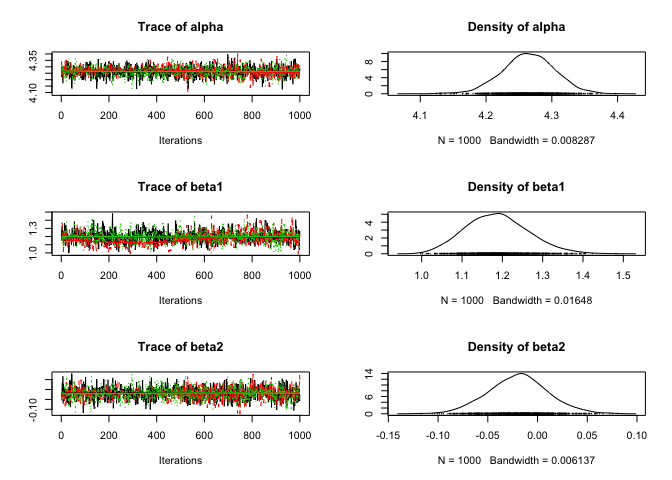
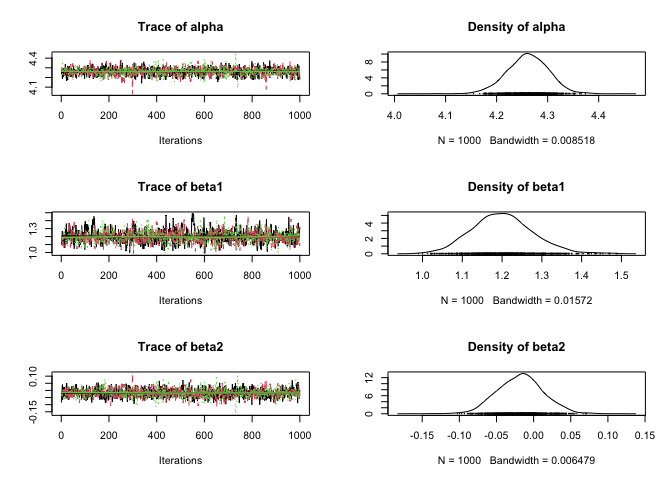
update readme

diff --git a/README.md b/README.md
@@ -1,17 +1,18 @@
 
 <!-- README.md is generated from README.Rmd. Please edit that file -->
 
+# smbr
+
+<!-- badges: start -->
+
 [![Lifecycle:
 stable](https://img.shields.io/badge/lifecycle-stable-brightgreen.svg)](https://lifecycle.r-lib.org/articles/stages.html#stable)
-[![R build
-status](https://github.com/poissonconsulting/smbr/workflows/R-CMD-check/badge.svg)](https://github.com/poissonconsulting/smbr/actions)
+[![R-CMD-check](https://github.com/poissonconsulting/smbr/workflows/R-CMD-check/badge.svg)](https://github.com/poissonconsulting/smbr/actions)
 [![Codecov test
 coverage](https://codecov.io/gh/poissonconsulting/smbr/branch/master/graph/badge.svg)](https://codecov.io/gh/poissonconsulting/smbr?branch=master)
 [![License:
 MIT](https://img.shields.io/badge/License-MIT-green.svg)](https://opensource.org/licenses/MIT)
-[![DOI](https://zenodo.org/badge/DOI/10.5281/zenodo.1162382.svg)](https://doi.org/10.5281/zenodo.1162382)
-
-# smbr
+<!-- badges: end -->
 
 ## Introduction
 
@@ -90,20 +91,18 @@ set.seed(42)
 
 # analyse
 analysis <- analyse(model, data = data, seed = 3L, glance = FALSE)
+#> Trying to compile a simple C file
 
 # coefficient table
-coef(analysis)
-#> Warning: The `simplify` argument of `coef()` must be TRUE as of mcmcr 0.4.1.
-#> This warning is displayed once every 8 hours.
-#> Call `lifecycle::last_warnings()` to see where this warning was generated.
-#> # A tibble: 5 x 7
-#>   term        estimate     sd  zscore   lower   upper   pvalue
-#>   <term>         <dbl>  <dbl>   <dbl>   <dbl>   <dbl>    <dbl>
-#> 1 alpha         4.26   0.0400 107.     4.19    4.34   0.000333
-#> 2 beta1         1.18   0.0771  15.4    1.05    1.35   0.000333
-#> 3 beta2        -0.0189 0.0301  -0.644 -0.0787  0.0411 0.492   
-#> 4 beta3        -0.267  0.0394  -6.82  -0.351  -0.199  0.000333
-#> 5 log_sAnnual  -2.26   0.716   -3.47  -4.51   -1.75   0.000333
+coef(analysis, simplify = TRUE)
+#> # A tibble: 5 × 5
+#>   term        estimate   lower   upper svalue
+#>   <term>         <dbl>   <dbl>   <dbl>  <dbl>
+#> 1 alpha         4.26    4.18    4.34   11.6  
+#> 2 beta1         1.20    1.06    1.36   11.6  
+#> 3 beta2        -0.0171 -0.0759  0.0430  0.874
+#> 4 beta3        -0.274  -0.359  -0.203  11.6  
+#> 5 log_sAnnual  -2.22   -2.92   -1.74   11.6
 
 # trace plots
 plot(analysis)
@@ -114,6 +113,7 @@ plot(analysis)
 ``` r
 # make predictions by varying year with other predictors including the random effect of Annual held constant
 year <- predict(analysis, new_data = "Year")
+#> Warning: The `simplify` argument of `coef()` must be TRUE as of mcmcr 0.4.1.
 
 # plot those predictions
 ggplot(data = year, aes(x = Year, y = estimate)) +
